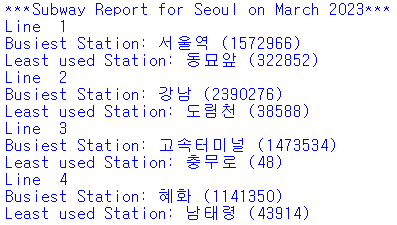
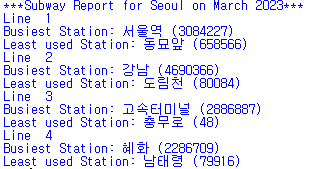
q3, q4수정

Changed region(s): [[0.0, 0.0, 0.9808, 1.0]]

diff --git a/q4/q4.py b/q4/q4.py
@@ -22,33 +22,33 @@ def main():
     line4ln=""
     for row in data:
         if((row[1])[0]=="1"):
-            if(line1b<int(row[-3])):
+            if(line1b<int(row[-3])+int(row[-2])):
                 line1bn=row[3]
-                line1b=int(row[-3])
-            if(line1l>int(row[-3])):
+                line1b=int(row[-3])+int(row[-2])
+            if(line1l>int(row[-3])+int(row[-2])):
                 line1ln=row[3]
-                line1l=int(row[-3])
+                line1l=int(row[-3])+int(row[-2])
         elif((row[1])[0]=="2"):
-            if(line2b<int(row[-3])):
+            if(line2b<int(row[-3])+int(row[-2])):
                 line2bn=row[3]
-                line2b=int(row[-3])
-            if(line2l>int(row[-3])):
+                line2b=int(row[-3])+int(row[-2])
+            if(line2l>int(row[-3])+int(row[-2])):
                 line2ln=row[3]
-                line2l=int(row[-3])
+                line2l=int(row[-3])+int(row[-2])
         elif((row[1])[0]=="3"):
-            if(line3b<int(row[-3])):
+            if(line3b<int(row[-3])+int(row[-2])):
                 line3bn=row[3]
-                line3b=int(row[-3])
-            if(line3l>int(row[-3])):
+                line3b=int(row[-3])+int(row[-2])
+            if(line3l>int(row[-3])+int(row[-2])):
                 line3ln=row[3]
-                line3l=int(row[-3])
+                line3l=int(row[-3])+int(row[-2])
         elif((row[1])[0]=="4"):
-            if(line4b<int(row[-3])):
+            if(line4b<int(row[-3])+int(row[-2])):
                 line4bn=row[3]
-                line4b=int(row[-3])
-            if(line4l>int(row[-3])):
+                line4b=int(row[-3])+int(row[-2])
+            if(line4l>int(row[-3])+int(row[-2])):
                 line4ln=row[3]
-                line4l=int(row[-3])
+                line4l=int(row[-3])+int(row[-2])
     
     print("***Subway Report for Seoul on March 2023***")
     print("Line ",1)

diff --git a/q3/q3.py b/q3/q3.py
@@ -17,7 +17,7 @@ def main():
     for row in data:
         if(not((row[1])[0] in ["1","2","3","4","5","6","7","8","9"])):
             continue
-        total[int((row[1])[0])-1] += int(row[-3])
+        total[int((row[1])[0])-1] += int(row[-3])+int(row[-2])
     total2=total.copy()
     
     maximum1=max(total)
